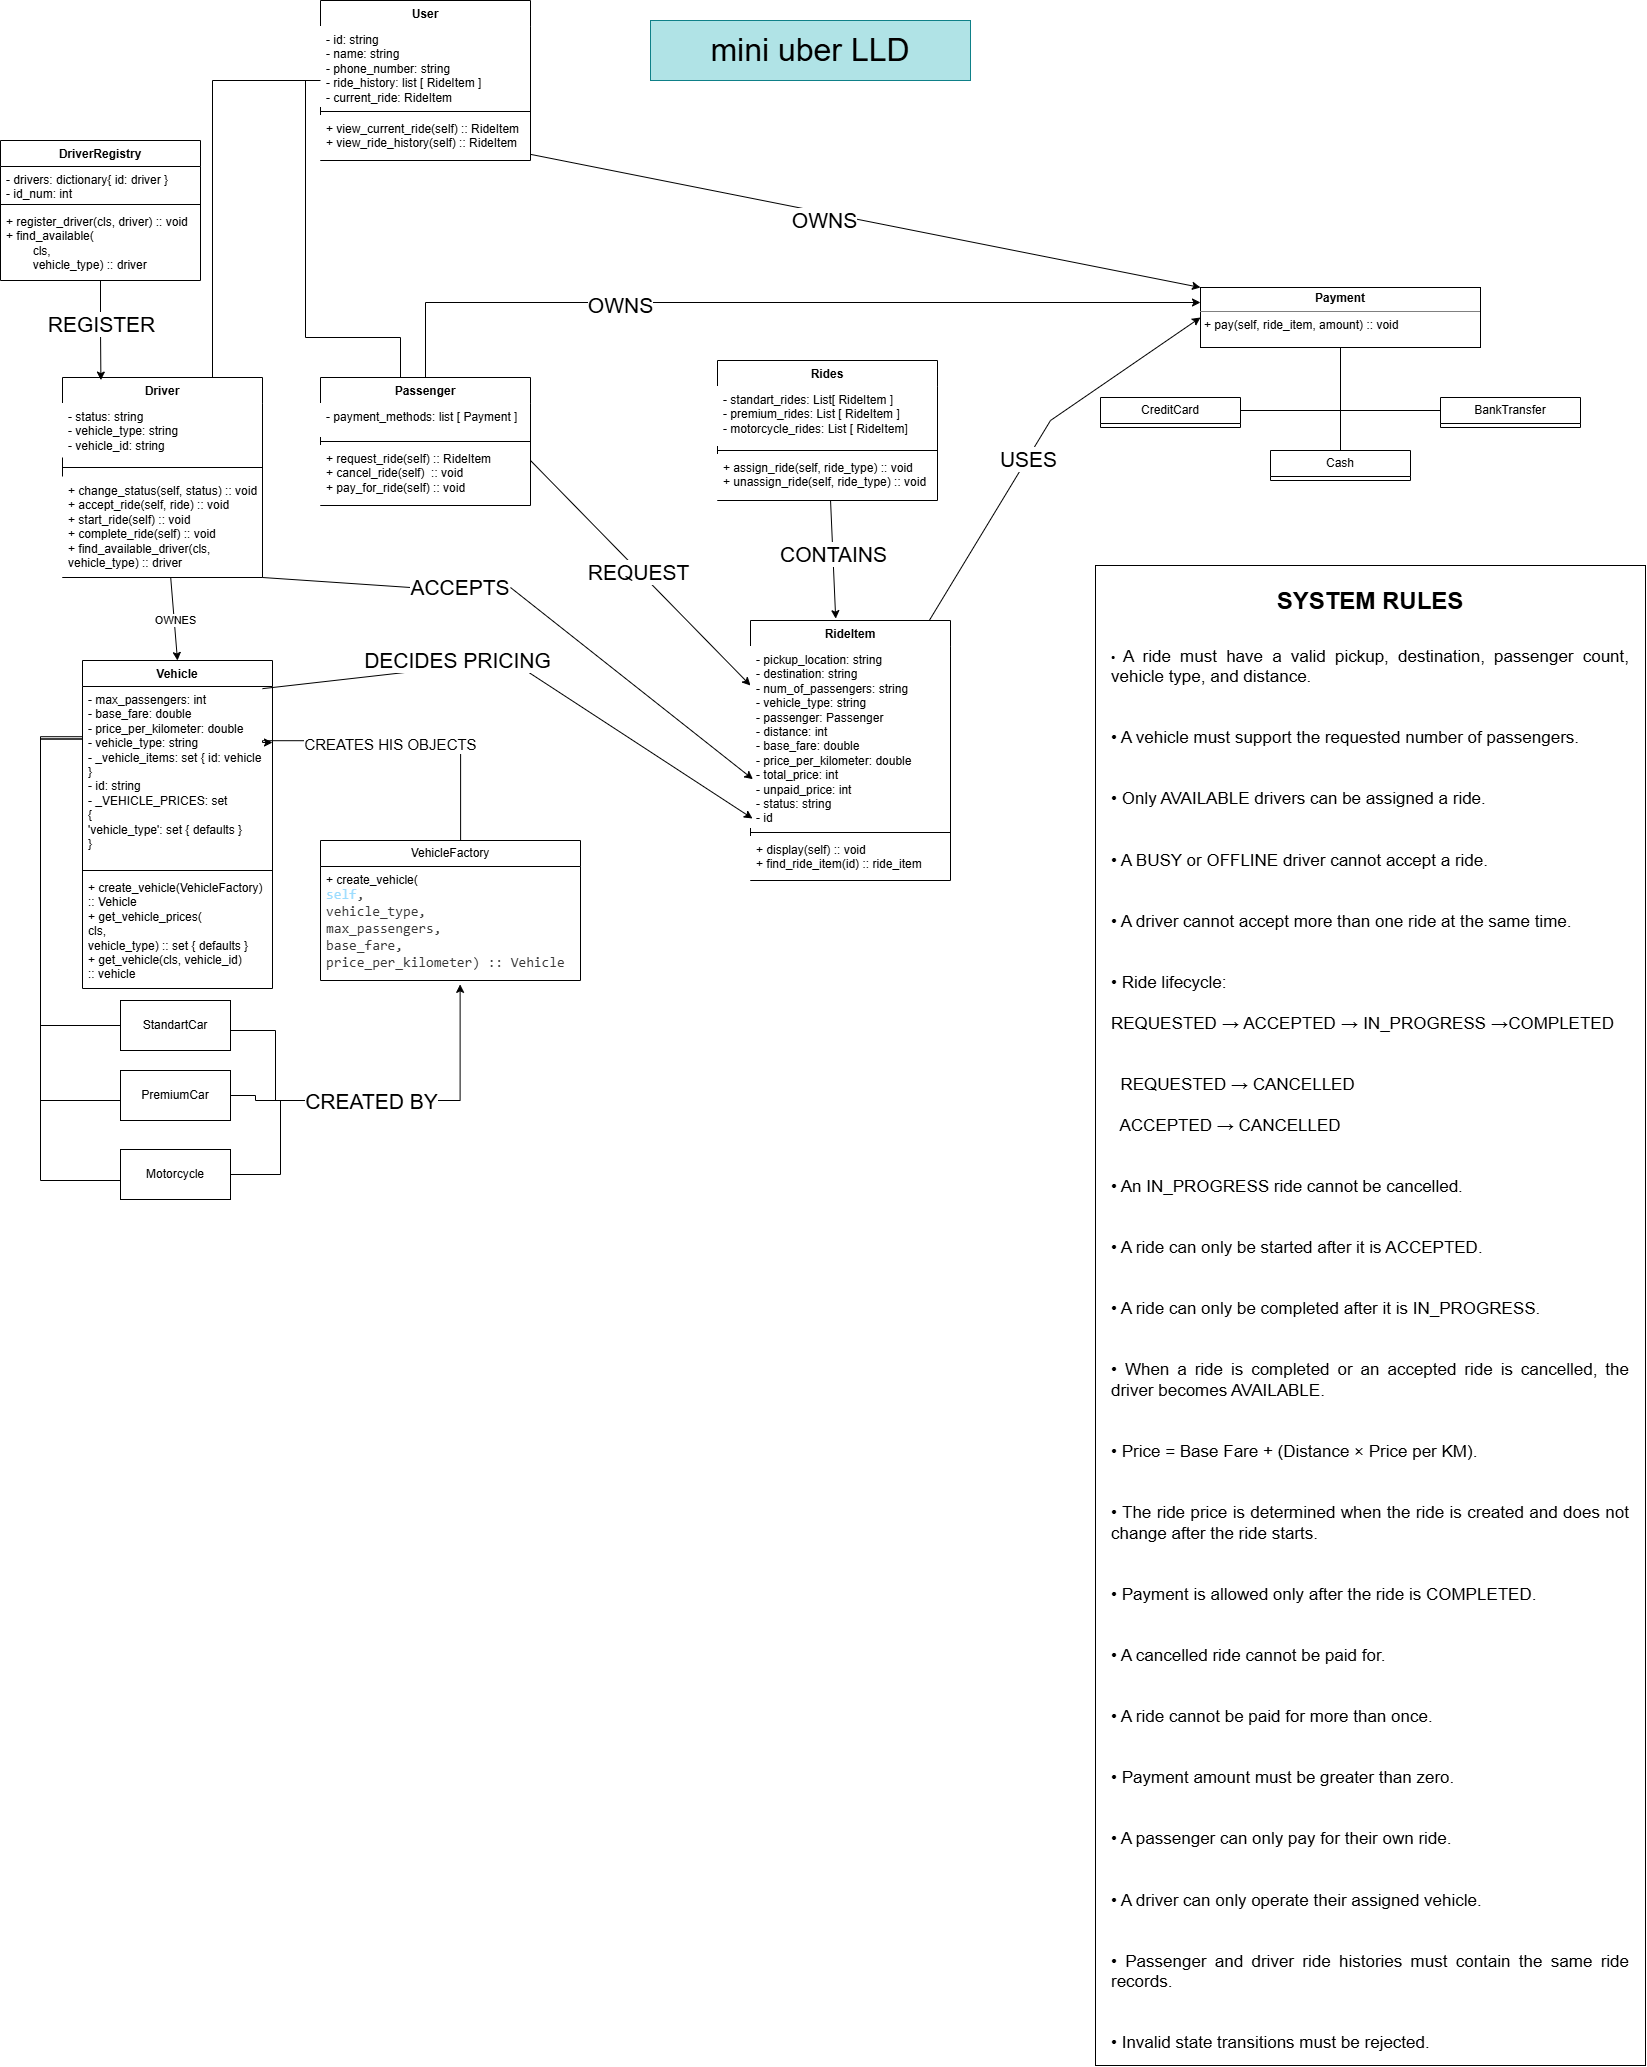
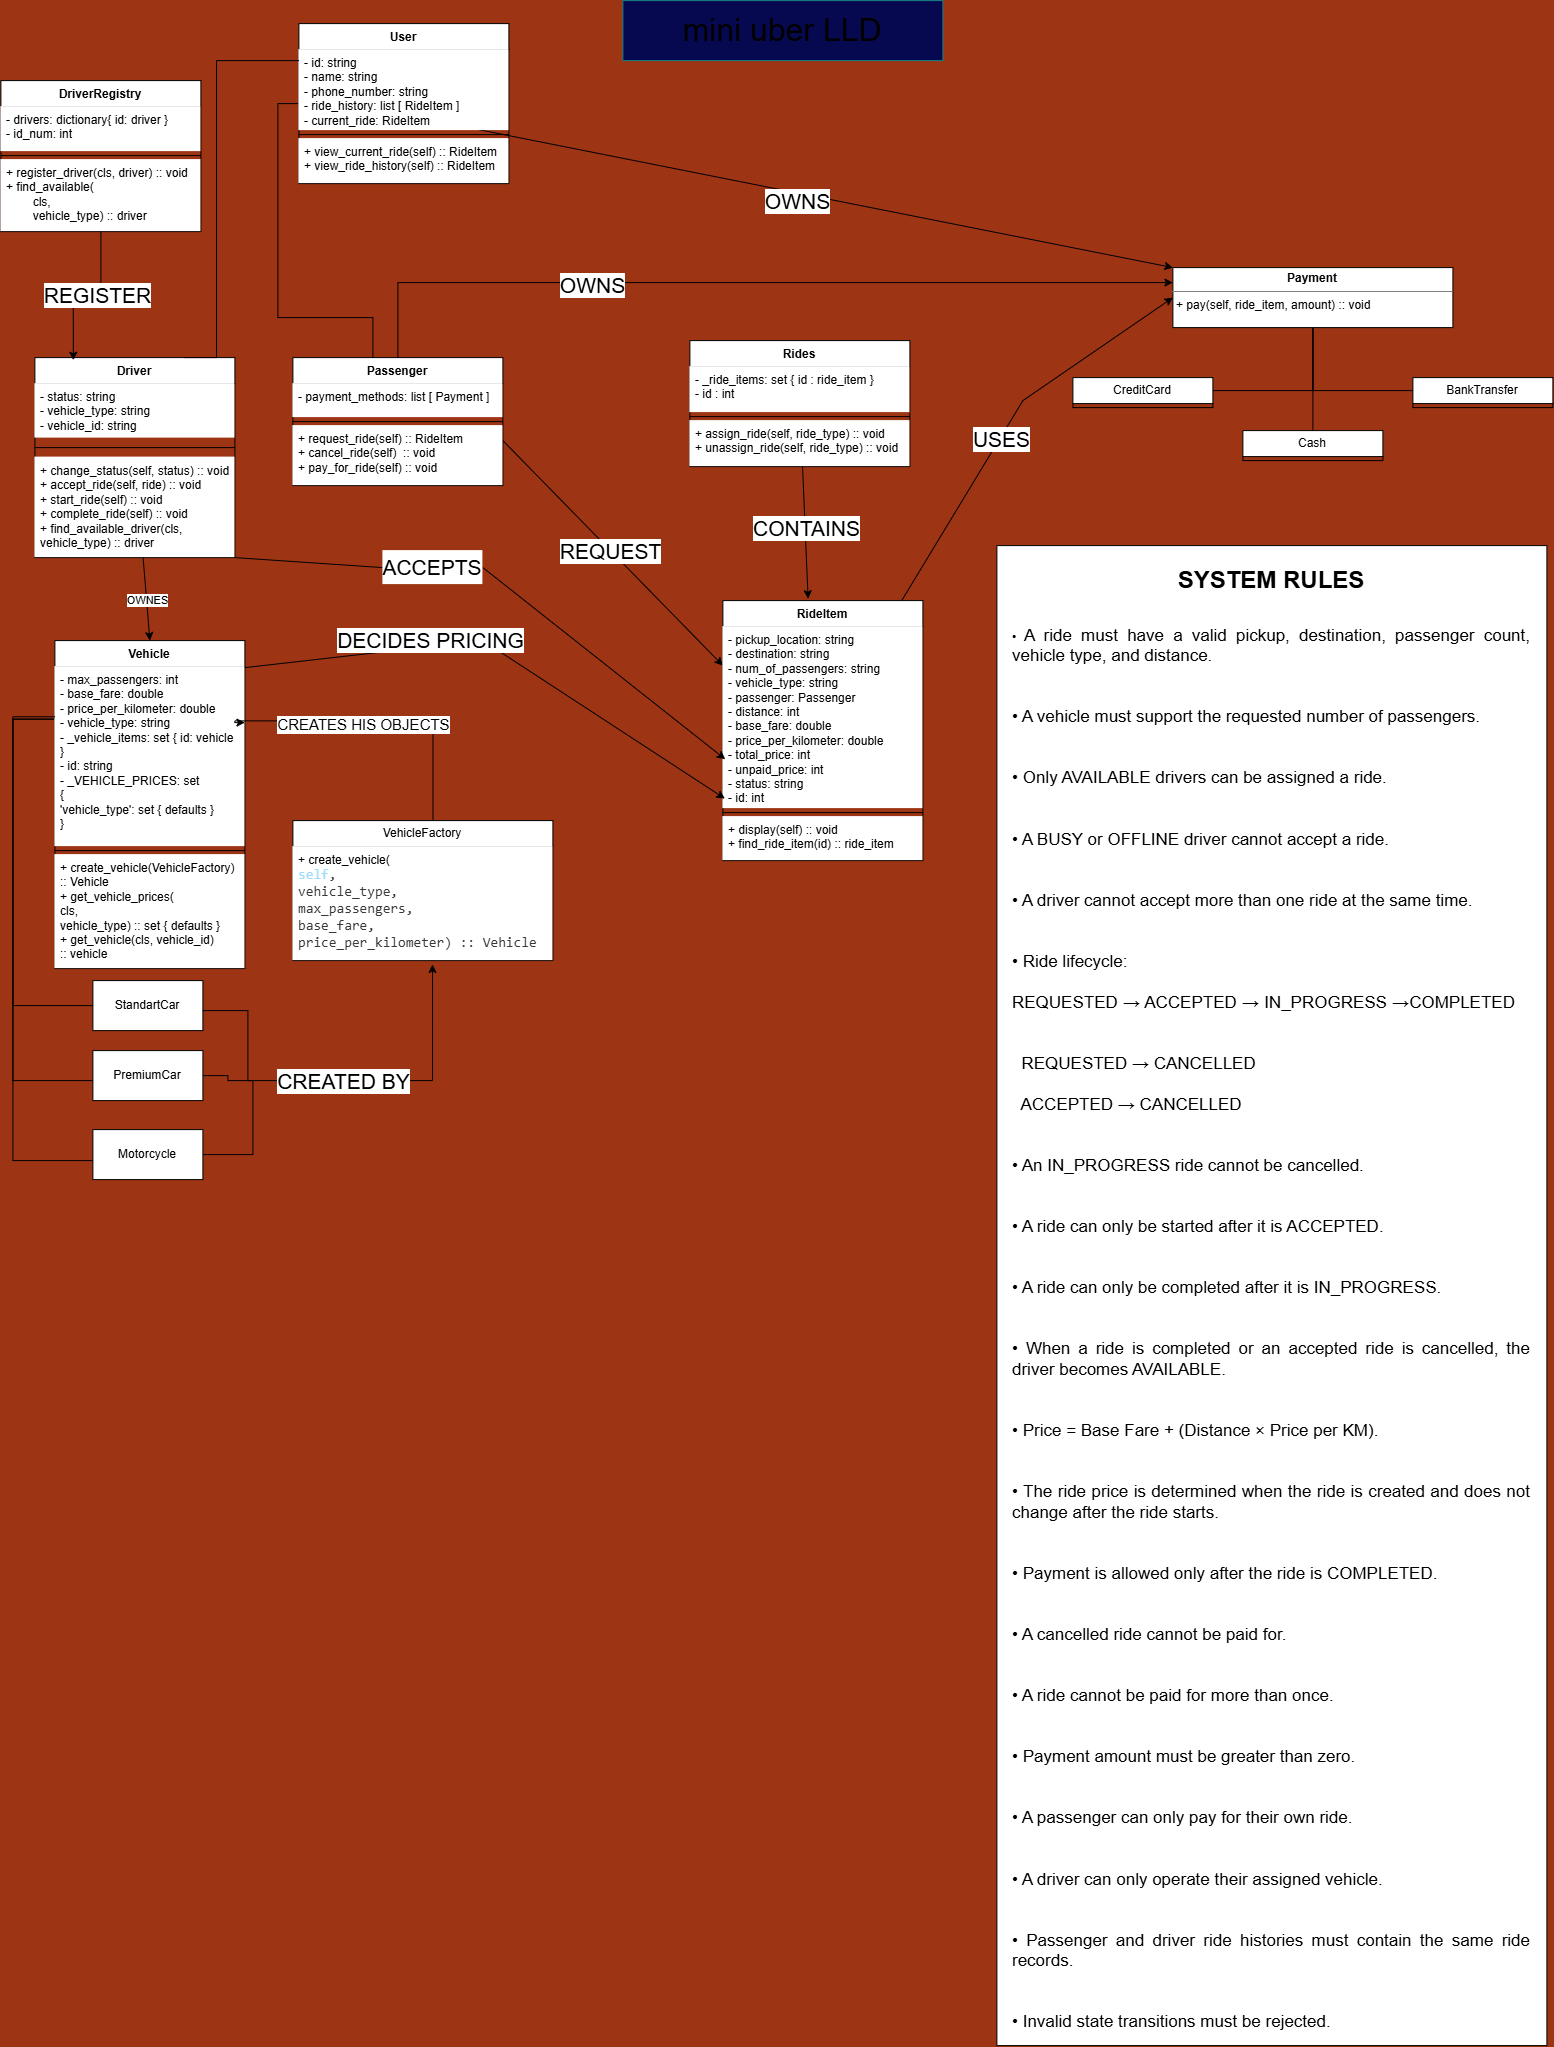
exercise_11: mini_uber_system project stage 2.2
- made the rest of the RideItem functions
- debugged some of the models
- made the imports for the models
- made main.py file

remaining tasks:
- debugging for errors in the code
- writing the code for the main workflow scenariou in main.py
- making the tests folder and writing the code for the test files
- testing edge casses and rules in the project
- writing the README.md and pyproject.toml files

diff --git a/exercise_11/src/mini_uber_system/models/Users/passenger.py b/exercise_11/src/mini_uber_system/models/Users/passenger.py
@@ -1,5 +1,5 @@
 from .user import User
-from Rides.ride_item import RideItem
+from ..Rides.ride_item import RideItem
 from .driver_registry import DriverRegistry
 
 class Passenger(User):
@@ -14,11 +14,12 @@ class Passenger(User):
         self.current_ride_id = None
         
         id = f"driver-{Passenger.id_num:03d}"
-        id_num += 1
+        Passenger.id_num += 1
         
         super().__init__(id, name, phone_number, self.current_ride_id,  ride_history=[])
         
         self.payment_methods = [cash_method, bank_transfer_method, credit_card_method]
+        self.is_payed = False
 
 
 
@@ -40,22 +41,60 @@ class Passenger(User):
         if self.current_ride_id == None:
             raise ValueError("you currently don't have a Active ride to cancell")
 
-        ride = RideItem.find_ride_item(self.current_ride_id)
+        ride_item = RideItem.find_ride_item(self.current_ride_id)
 
-        if ride.status == 'Requested' or ride.status == 'Accepted':
-            raise ValueError("you can't cancell the ride anymore")
-
-        ride.status = 'Cancelled'
+        ride_item.cancell_ride()
 
         for driver in DriverRegistry.drivers.values():
             if driver.current_ride_id == self.current_ride_id:
-                driver.status = 'Available'
+                driver.change_status('Available')
                 driver.current_ride_id = None
 
         self.current_ride_id = None
 
+
+
+    def pay_ride(self, amount, payment_method):
+        if payment_method not in self.payment_methods:
+            raise ValueError("this payment method isn't yours")
+        
+        if self.current_ride_id == None:
+            raise ValueError("you don't have a active ride to pay right now")
+
+        ride_item = RideItem.find_ride_item(self.current_ride_id)
+
+        if ride_item.status == 'Cancelled':
+            raise ValueError("you already cancelled this ride")
+
+        if ride_item.status != 'Completed':
+            raise ValueError("you should complete the ride before you can pay for it")
+
+        self.is_payed = payment_method.pay(ride_item, amount)
+        ride_item.is_payed = self.is_payed
+
+        if self.is_payed:
+            self.current_ride_id = None
+
+
+    def register_payment_method(self, payment_method):
+        from ..Payment_Methods.payment import Payment
+
+        if not isinstance(payment_method, Payment):
+            raise TypeError("payment_method must be a Payment")
+
+        if any(
+            registered_method is not None
+            and type(registered_method) is type(payment_method)
+            for registered_method in self.payment_methods
+        ):
+            raise ValueError("you already have a payment method of this type")
+
+        self.payment_methods.append(payment_method)
+
+
     def view_current_ride(self):
         super().view_current_ride()
+
 
 
     def view_ride_history(self):

diff --git a/exercise_11/src/mini_uber_system/models/Rides/ride_item.py b/exercise_11/src/mini_uber_system/models/Rides/ride_item.py
@@ -1,5 +1,5 @@
-from Vehicles.vehicle import Vehicle
-from .ride import Ride
+from ..Vehicles.vehicle import Vehicle
+
 
 class RideItem:
     def __init__(self, pickup_location, destination, num_of_passengers, vehicle_type, distance, passenger):
@@ -16,14 +16,45 @@ class RideItem:
         self.total_price = self.base_fare + self.price_per_kilometer * self.distance
         self.unpaid_price = self.total_price
         self.status = 'Requested'
+        self.is_payed = False
+
+        from .ride import Ride
 
         self.id = Ride.register_ride_item(self)
-        Ride.assign(self)
-
 
     @classmethod
-    def find_ride_item(ride_item_id):
+    def find_ride_item(cls, ride_item_id):
+        from .ride import Ride
+
         return Ride.get_ride_item(ride_item_id)
+
+
+    def accept_ride(self):
+        if self.status != 'Requested':
+            raise ValueError(f"you can't accept ride {self.id} if it's status isn't Requested")
+
+        self.status = 'Accepted'
+
+
+    def start_ride(self):
+        if self.status != 'Accepted':
+            raise ValueError(f"you can't start ride {self.id} if it's status isn't Accepted")
+
+        self.status = 'In_Progress' 
+
+
+    def complete_ride(self):
+        if self.status != 'In_Progress':
+            raise ValueError(f"you can't start ride {self.id} if it's status isn't In_Progress")
+
+        self.status = 'Completed'      
+
+
+    def cancell_ride(self):
+        if self.status != 'Requested' or self.status != 'Accepted':
+            raise ValueError(f"you can't cancell ride {self.id} in this state")
+
+        self.status = 'Cancelled'
 
 
     def display(self):
@@ -32,3 +63,5 @@ class RideItem:
         print(f"Destination: {self.destination}")
         print(f"Passengers: {self.num_of_passengers}")
         print(f"Vehicle Type: {self.vehicle_type}")
+
+

diff --git a/exercise_11/src/mini_uber_system/models/Users/driver.py b/exercise_11/src/mini_uber_system/models/Users/driver.py
@@ -1,6 +1,6 @@
 from .user import User
 from .driver_registry import DriverRegistry
-from Rides.ride_item import RideItem
+from ..Rides.ride_item import RideItem
 
 class Driver(User):
     def __init__(self, name, phone_number, vehicle):
@@ -25,13 +25,10 @@ class Driver(User):
         if self.status == 'Busy':
             raise ValueError("you can't accept ride while you are busy")
 
-        if ride_item.status != 'Requested':
-            raise ValueError("this ride is already accepted by someone else")
-
         if self.vehicle_type != ride_item.vehicle_type:
             raise ValueError("you can't accept this ride request now")
 
-        ride_item.status = 'Accepted'
+        ride_item.accept_ride()
         self.current_ride_id = ride_item.id
         self.change_status('Busy')
 
@@ -39,20 +36,15 @@ class Driver(User):
     def start_ride(self):
         ride = RideItem.find_ride_item(self.current_ride_id)
 
-        if ride.status != 'Accepted':
-            raise ValueError("you can't start this ride request now")
-
-        ride.status = 'In_Progress'
+        ride.accept_ride()
 
 
     def complete_ride(self):
         ride = RideItem.find_ride_item(self.current_ride_id)
 
-        if ride.status != 'In_Progress':
-            raise ValueError("you can't complete this ride request now")
-
-        ride.status = 'Completed'
-        self.status = 'Active'
+        ride.complete_ride()
+        self.change_status('Active')
+        
         self.current_ride_id = None
 
 

diff --git a/exercise_11/src/mini_uber_system/models/Payment_Methods/credit_card.py b/exercise_11/src/mini_uber_system/models/Payment_Methods/credit_card.py
@@ -2,4 +2,24 @@ from .payment import Payment
 
 class CreditCard(Payment):
     def pay(self, ride_item, amount):
-        pass
+        super().__init__(ride_item, amount)
+
+        if amount <= ride_item.unpaid_price:
+            ride_item.unpaid_price -= amount
+            
+        else:
+           ride_item.unpaid_price -= amount
+           print("you paid using Credit Card")
+           print(f"you paid more than the total price, we returned {amount - ride_item.unpaid_price}")
+
+        print("you paid using Credit Card")
+
+        if ride_item.unpaid_price == 0:
+            print("you paid all your debt")
+            return True
+            
+        elif ride_item.unpaid_price > 0:
+            print(f"you still have {ride_item.unpaid_price} tl to pay")
+            return False
+
+        

diff --git a/exercise_11/src/mini_uber_system/models/Payment_Methods/bank_transfer.py b/exercise_11/src/mini_uber_system/models/Payment_Methods/bank_transfer.py
@@ -2,4 +2,22 @@ from .payment import Payment
 
 class BankTransfer(Payment):
     def pay(self, ride_item, amount):
-        pass
+        super().__init__(ride_item, amount)
+
+        if amount <= ride_item.unpaid_price:
+            ride_item.unpaid_price -= amount
+            
+        else:
+           ride_item.unpaid_price -= amount
+           print("you paid using Bank Transfer")
+           print(f"you paid more than the total price, we returned {amount - ride_item.unpaid_price}")
+
+        print("you paid using Bank Transfer")
+
+        if ride_item.unpaid_price == 0:
+            print("you paid all your debt")
+            return True
+            
+        elif ride_item.unpaid_price > 0:
+            print(f"you still have {ride_item.unpaid_price} tl to pay")
+            return False

diff --git a/exercise_11/src/mini_uber_system/models/Payment_Methods/cash.py b/exercise_11/src/mini_uber_system/models/Payment_Methods/cash.py
@@ -2,4 +2,22 @@ from .payment import Payment
 
 class Cash(Payment):
     def pay(self, ride_item, amount):
-        pass
+        super().__init__(ride_item, amount)
+
+        if amount <= ride_item.unpaid_price:
+            ride_item.unpaid_price -= amount
+            
+        else:
+           ride_item.unpaid_price -= amount
+           print("you paid using Cash")
+           print(f"you paid more than the total price, we returned {amount - ride_item.unpaid_price}")
+
+        print("you paid using Cash")
+
+        if ride_item.unpaid_price == 0:
+            print("you paid all your debt")
+            return True
+            
+        elif ride_item.unpaid_price > 0:
+            print(f"you still have {ride_item.unpaid_price} tl to pay")
+            return False

diff --git a/exercise_11/src/mini_uber_system/models/__init__.py b/exercise_11/src/mini_uber_system/models/__init__.py
@@ -1,0 +1,22 @@
+from .Payment_Methods import BankTransfer, Cash, CreditCard, Payment
+from .Rides import Ride, RideItem
+from .Users import Driver, DriverRegistry, Passenger, User
+from .Vehicles import Motorcycle, PremiumCar, StandartCar, Vehicle, VehicleFactory
+
+__all__ = [
+	"Vehicle",
+	"VehicleFactory",
+	"Motorcycle",
+	"PremiumCar",
+	"StandartCar",
+	"User",
+	"Driver",
+	"Passenger",
+	"DriverRegistry",
+	"Ride",
+	"RideItem",
+	"Payment",
+	"Cash",
+	"BankTransfer",
+	"CreditCard",
+]

diff --git a/exercise_11/src/mini_uber_system/models/Rides/ride.py b/exercise_11/src/mini_uber_system/models/Rides/ride.py
@@ -1,5 +1,3 @@
-from Users.driver import Driver
-
 class Ride:
     _ride_items = {}
     id = 1
@@ -7,6 +5,8 @@ class Ride:
 
     @classmethod
     def check_for_available_drivers(cls, vehicle_type):
+        from ..Users.driver import Driver
+
         available_drivers = Driver.find_available_driver(vehicle_type)
 
         if available_drivers is None:

diff --git a/exercise_11/src/mini_uber_system/models/Vehicles/__init__.py b/exercise_11/src/mini_uber_system/models/Vehicles/__init__.py
@@ -1,1 +1,6 @@
-from .vehicle import Vehicle
+from .motorcycle import Motorcycle
+from .premium_car import PremiumCar
+from .standart_car import StandartCar
+from .vehicle import Vehicle, VehicleFactory
+
+__all__ = ["Vehicle", "VehicleFactory", "Motorcycle", "PremiumCar", "StandartCar"]

diff --git a/exercise_11/src/mini_uber_system/models/Users/__init__.py b/exercise_11/src/mini_uber_system/models/Users/__init__.py
@@ -1,1 +1,6 @@
-from Users import driver_registry, driver, passenger, user
+from .driver import Driver
+from .driver_registry import DriverRegistry
+from .passenger import Passenger
+from .user import User
+
+__all__ = ["User", "Driver", "Passenger", "DriverRegistry"]

diff --git a/exercise_11/src/mini_uber_system/models/Users/driver_registry.py b/exercise_11/src/mini_uber_system/models/Users/driver_registry.py
@@ -7,7 +7,8 @@ class DriverRegistry:
     def register_driver(cls, driver):
         id = f"driver-{cls.id_num:03d}"
         cls.drivers[id] = driver
-        id_num += 1
+        DriverRegistry.id_num += 1
+        return id
 
 
     @classmethod

diff --git a/exercise_11/src/mini_uber_system/models/Payment_Methods/__init__.py b/exercise_11/src/mini_uber_system/models/Payment_Methods/__init__.py
@@ -1,0 +1,6 @@
+from .bank_transfer import BankTransfer
+from .cash import Cash
+from .credit_card import CreditCard
+from .payment import Payment
+
+__all__ = ["Payment", "Cash", "BankTransfer", "CreditCard"]
